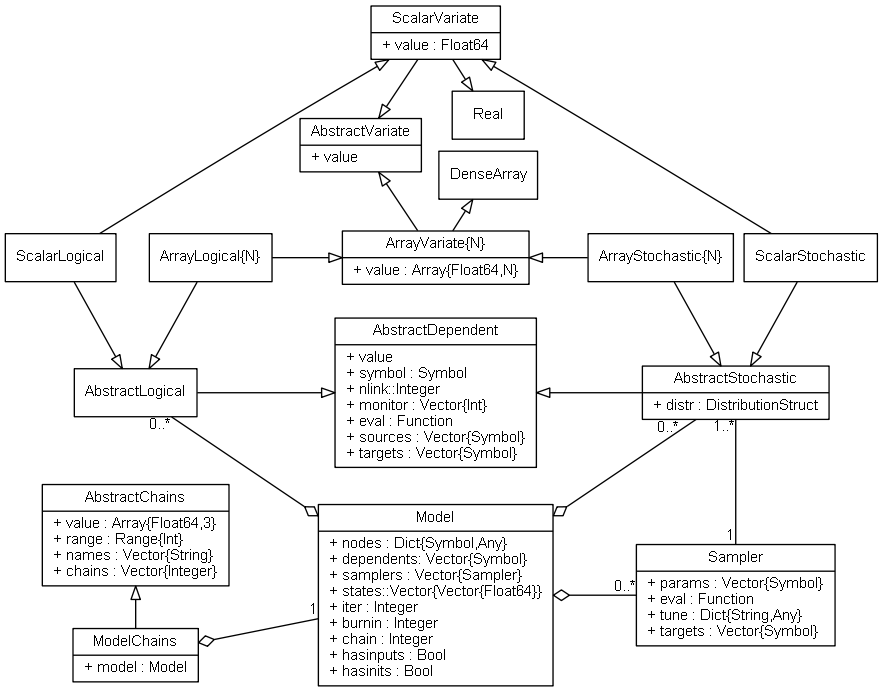
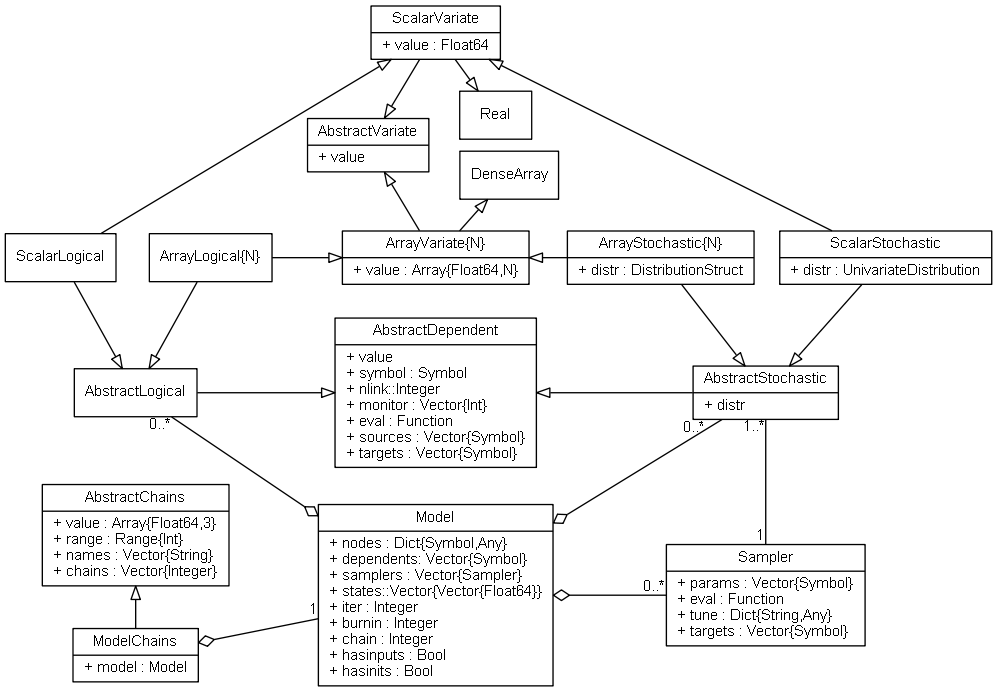
Redefine the distribution types for Stochastic nodes.

diff --git a/doc/mcmc/dependent.rst b/doc/mcmc/dependent.rst
@@ -222,14 +222,19 @@ Fields
 * ``eval::Function`` : a function for updating the ``distr`` field for the node.
 * ``sources::Vector{Symbol}`` : symbols of other nodes upon whom the distributional specification for this one depends.
 * ``targets::Vector{Symbol}`` : symbols of ``Dependent`` nodes that depend on this one.  Elements of ``targets`` are topologically sorted so that a given node in the vector is conditionally independent of subsequent nodes, given the previous ones.
-* ``distr::DistributionStruct`` : the distributional specification for the node.
+* ``distr`` : a distributional specification of type ``UnivariateDistribution`` for ``ScalarStochastic`` nodes and ``DistributionStruct`` for ``ArrayStochastic`` nodes.
 
 Aliases
 ^^^^^^^
 
+``DistributionStruct`` defines the types of distribution structures supported for ``ArrayStochastic`` nodes.  Currently, those include single ``Distribution`` types or arrays of same or mixed ``UnivariateDistribution`` types.  Support for arrays of ``MultivariateDistribution`` types is under development for future inclusion in the package.
+
 .. code-block:: julia
 
-    typealias DistributionStruct Union(Distribution, Array{Distribution})
+    typealias UnivariateDistributionArray{T<:UnivariateDistribution}
+              Union(Array{T}, Array{Distribution{T}})
+    typealias DistributionStruct
+              Union(Distribution, UnivariateDistributionArray)
 
 Constructors
 ^^^^^^^^^^^^

diff --git a/doc/examples.rst b/doc/examples.rst
@@ -8,6 +8,9 @@ OpenBUGS
 
 The following examples are taken from OpenBUGS :cite:`openbugs:2014:ex1`, and were used in the development and testing of `Mamba`.  They are provide to illustrate model specification and fitting with the package, and how its syntax compares to other Bayesian modelling software.
 
+Volume I
+^^^^^^^^
+
 .. toctree::
     :maxdepth: 1
 
@@ -29,6 +32,13 @@ The following examples are taken from OpenBUGS :cite:`openbugs:2014:ex1`, and we
     examples/inhalers.rst
     examples/mice.rst
     examples/leuk.rst
+
+Volume II
+^^^^^^^^^
+
+.. toctree::
+    :maxdepth: 1
+
     examples/jaws.rst
     examples/eyes.rst
 
